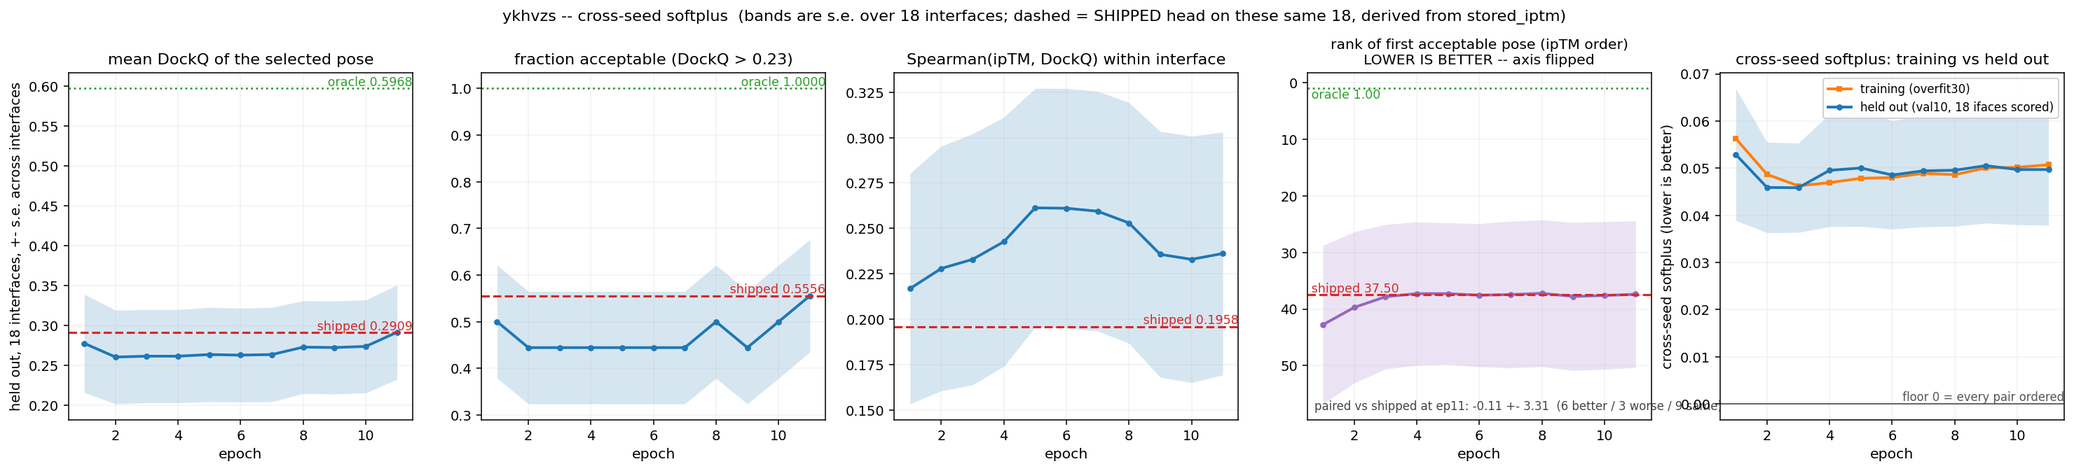
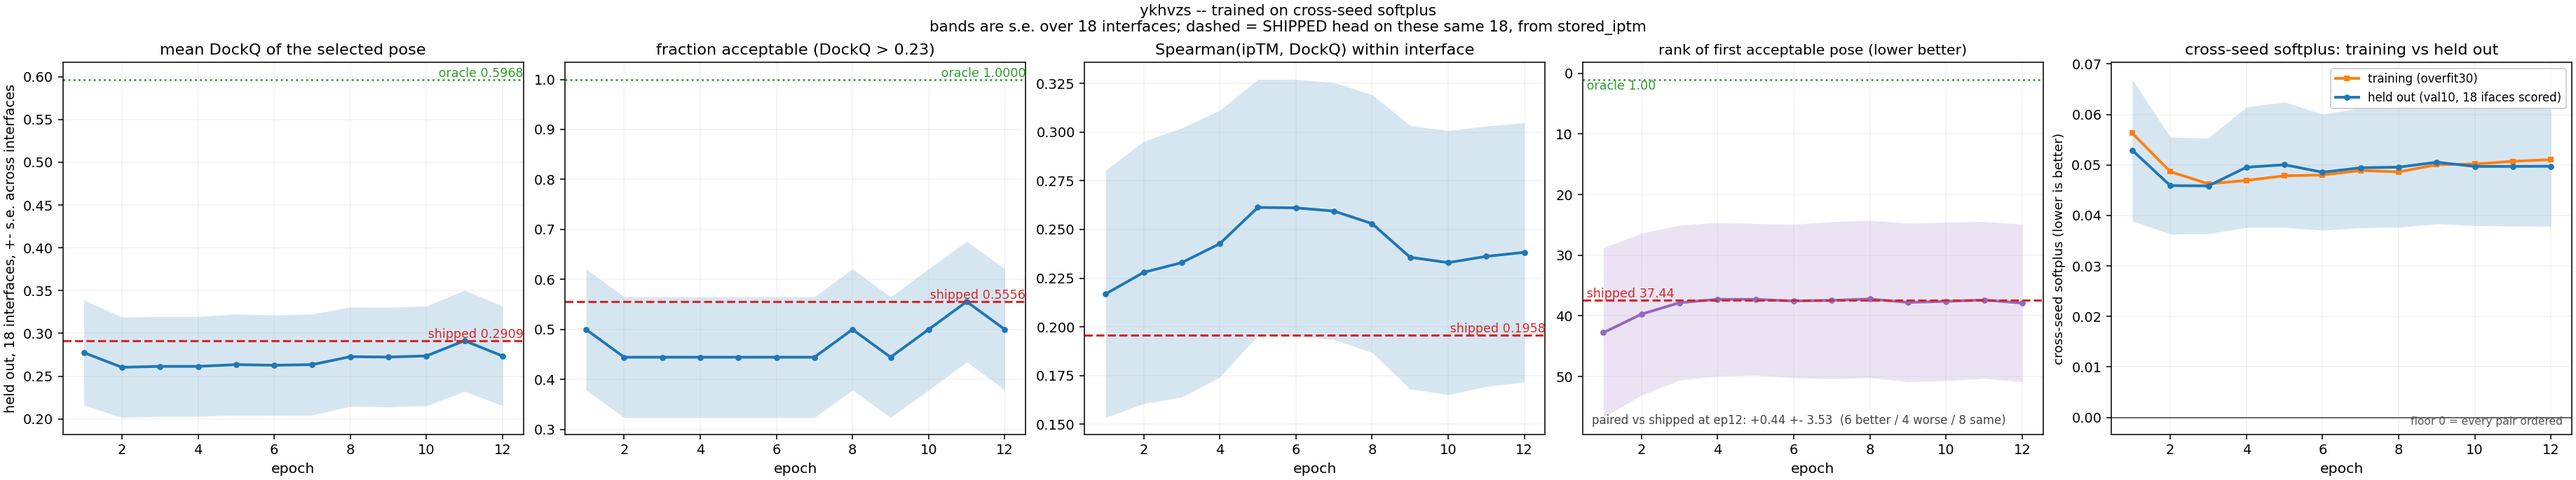
plot the loss the run actually trained, and stop the labels colliding
TWO BUGS, both mine, both caught by the user looking at the picture.

1. objective_label() never checked rank_loss. For a PAE-only run it read
   rank_pairs, found it absent, defaulted it to "cross", and appended a
   hardcoded "softplus" -- so 8eiek8 (PAE, pose-share, no --rank-loss) was
   titled "cross-seed softplus" with every field of that label invented.
   It now returns the loss that was trained, and reads rank_form instead
   of assuming softplus so a linear-form arm is not mislabelled either.

2. My first fix made it worse. The replacement string was a sentence, and
   that sentence was used as BOTH a panel title and a y-axis label, so it
   ran across the neighbouring panel in both directions. Labels are short
   again -- "PAE", "cross-seed softplus" -- and the caveat moved to the
   suptitle.

AND THE PANEL NOW SHOWS THE RIGHT CURVE. rank_rho.py derives a held-out
ranking loss for ANY run, because it only measures ordering and that is
defined for any head. But on a run that never optimised it, drawing it in
the panel headed "the objective itself" asserts something false. A run
without --rank-loss now gets its PAE curves there, train against held out,
over the epochs that have both -- the same intersection rule
plot_full_train.py uses, so the vertical gap between the curves is always
one head rather than a bookkeeping artefact.

8eiek8 reads correctly now: PAE training 2.54 -> 2.26 while held-out PAE
[…]

diff --git a/extra_training/run_logging/plot_three.py b/extra_training/run_logging/plot_three.py
@@ -24,6 +24,7 @@ matplotlib.use("Agg")
 import matplotlib.pyplot as plt
 
 sys.path.insert(0, os.path.dirname(os.path.abspath(__file__)))
+import metrics_io as MIO
 import rank_rho as RHO
 
 # DERIVED FROM THE RUN'S OWN SHARDS, NOT HARDCODED.
@@ -255,9 +256,22 @@ def objective_label(rid):
             a = json.load(fh)
     except Exception:
         return "ranking loss"
+    # A RUN WITH NO RANKING LOSS STILL GETS THIS PANEL, because rank_rho.py derives held-out
+    # ranking loss from the eval shards for ANY run -- it measures how well the head orders poses,
+    # which is defined whatever the head was trained on. But it is then a DIAGNOSTIC, not the
+    # objective, and saying otherwise is a lie about the run. 8eiek8 (PAE only, pose-share, no
+    # --rank-loss) was labelled "cross-seed softplus" because rank_pairs defaults to "cross" when
+    # absent and "softplus" was hardcoded, so every field of that label was invented.
+    if not a.get("rank_loss"):
+        terms = []
+        if float(a.get("alpha_pae") or 0.0):
+            terms.append("PAE")
+        if float(a.get("alpha_confidence") or 0.0) and not a.get("pae_only"):
+            terms.append("confidence")
+        return " + ".join(terms) or "unrecorded loss"
     fam = {"cross": "cross-seed", "within": "within-seed", "all": "all-pair"}.get(
         a.get("rank_pairs") or "cross", a.get("rank_pairs"))
-    bits = [fam, "softplus"]
+    bits = [fam, str(a.get("rank_form") or "softplus")]
     st = float(a.get("rank_straddle") or 0.0)
     if st:
         bits.append(f"straddle {st:g}")
@@ -268,6 +282,29 @@ def objective_label(rid):
     if tau is not None:
         bits.append(f"tau {float(tau):g}")
     return " ".join(bits)
+
+
+def trained_rank_loss(rid):
+    """True when the run actually minimised a ranking loss. A run WITHOUT one still gets a
+    held-out ranking-loss column from rank_rho.py -- it is defined for any head, because it only
+    measures ordering -- but then it is a DIAGNOSTIC and the objective panel must show the loss
+    that was really trained, or the panel lies about the run."""
+    try:
+        with open(os.path.join("training", "runs", run_chain(rid)[0], "args.json")) as fh:
+            return bool(json.load(fh).get("rank_loss"))
+    except Exception:
+        return True
+
+
+def pae_curves(rid):
+    """(epochs, train PAE, held-out PAE) for a PAE-trained run, over the epochs that have BOTH.
+
+    Same rule plot_full_train.py uses: an epoch missing either side is dropped rather than drawn
+    against a gap, so a vertical distance between the curves is always the same head.
+    """
+    M = MIO.load("training/runs", rid, 30, 0)
+    both = sorted(set(M.train_pae) & set(M.val_pae))
+    return both, [M.train_pae[e] for e in both], [M.val_pae[e][0] for e in both]
 
 
 def rank_family(rid):
@@ -338,7 +375,7 @@ def main():
         panels.append(("Spearman(ipTM, DockQ) within interface",
                        g("rho_trained"), g("rho_sem"), s_rho, None))
     n_ax = len(panels) + 1 + (1 if far_panel else 0)   # + objective panel, + rank panel
-    fig, axes = plt.subplots(1, n_ax, figsize=(5.25 * n_ax, 4.6))
+    fig, axes = plt.subplots(1, n_ax, figsize=(5.25 * n_ax, 4.9), layout="constrained")
     for ax, (title, y, se, ship, orac) in zip(axes, panels):
         lo = [v - s for v, s in zip(y, se)]
         hi = [v + s for v, s in zip(y, se)]
@@ -371,7 +408,7 @@ def main():
         axr.text(axr.get_xlim()[0], 1.0, " oracle 1.00", color="#2ca02c",
                  fontsize=9, va="top", ha="left")
         axr.invert_yaxis()                      # see the comment where far_panel is built
-        axr.set_title("rank of first acceptable pose (ipTM order)\nLOWER IS BETTER -- axis flipped",
+        axr.set_title("rank of first acceptable pose (lower better)",
                       fontsize=10.5)
         axr.set_xlabel("epoch", fontsize=10.5)
         axr.grid(alpha=0.15)
@@ -407,33 +444,44 @@ def main():
         _floor_txt = " floor 0 = every pair ordered"
     _tr_pool, _ho_pool = pool_names(a.rid)
     _fam = rank_family(a.rid)
-    tr = {}
-    for _r in run_chain(a.rid):
-        tr.update(train_rank_loss(_r))
-    tr_ep = [e for e in ep if e in tr]
-    if tr_ep:
-        ax.plot(tr_ep, [tr[e] for e in tr_ep], color="#ff7f0e", lw=2.0, marker="s", ms=3.5,
-                label="training" + (f" ({_tr_pool}" if _tr_pool else " (")
-                      + (f", {_fam}-seed pairs)" if _fam and _fam != "cross" else ")"))
-    ho, ho_se = g(ho_col), g(ho_se_col)
-    ax.fill_between(ep, [v - s for v, s in zip(ho, ho_se)], [v + s for v, s in zip(ho, ho_se)],
-                    color="#1f77b4", alpha=0.18, lw=0)
-    ax.plot(ep, ho, color="#1f77b4", lw=2.0, marker="o", ms=3.5,
-            label="held out (" + (f"{_ho_pool}, " if _ho_pool else "")
-                  + f"{n_if} ifaces scored" + ")")
-    ax.axhline(0.0, color="#555555", ls="-", lw=0.9)
-    ax.text(ax.get_xlim()[1], 0.0, _floor_txt, color="#555555",
-            fontsize=8.5, va="bottom", ha="right")
-    ax.set_title(f"{_lbl}: training vs held out", fontsize=11.5)
+    if not trained_rank_loss(a.rid):
+        # PAE RUN: the ranking columns exist but were never optimised, so drawing them here and
+        # calling them the objective is a false claim about the run. Draw the PAE it did minimise.
+        _pep, _ptr, _pho = pae_curves(a.rid)
+        if _pep:
+            ax.plot(_pep, _ptr, color="#ff7f0e", lw=2.0, marker="s", ms=3.5, label="training")
+            ax.plot(_pep, _pho, color="#1f77b4", lw=2.0, marker="o", ms=3.5, label="held out")
+        _lbl = objective_label(a.rid)
+        ax.set_title(f"{_lbl} loss: training vs held out", fontsize=11.5)
+    else:
+        tr = {}
+        for _r in run_chain(a.rid):
+            tr.update(train_rank_loss(_r))
+        tr_ep = [e for e in ep if e in tr]
+        if tr_ep:
+            ax.plot(tr_ep, [tr[e] for e in tr_ep], color="#ff7f0e", lw=2.0, marker="s", ms=3.5,
+                    label="training" + (f" ({_tr_pool}" if _tr_pool else " (")
+                          + (f", {_fam}-seed pairs)" if _fam and _fam != "cross" else ")"))
+        ho, ho_se = g(ho_col), g(ho_se_col)
+        ax.fill_between(ep, [v - s for v, s in zip(ho, ho_se)], [v + s for v, s in zip(ho, ho_se)],
+                        color="#1f77b4", alpha=0.18, lw=0)
+        ax.plot(ep, ho, color="#1f77b4", lw=2.0, marker="o", ms=3.5,
+                label="held out (" + (f"{_ho_pool}, " if _ho_pool else "")
+                      + f"{n_if} ifaces scored" + ")")
+        ax.axhline(0.0, color="#555555", ls="-", lw=0.9)
+        ax.text(0.98, 0.02, _floor_txt.strip(), transform=ax.transAxes, color="#555555",
+                fontsize=8, va="bottom", ha="right")
+        ax.set_title(f"{_lbl}: training vs held out", fontsize=11.5)
     ax.set_xlabel("epoch", fontsize=10.5)
-    ax.set_ylabel(f"{_lbl} (lower is better)", fontsize=10)
+    ax.set_ylabel(f"{_lbl} (lower is better)", fontsize=9.5)
     ax.legend(fontsize=8.5, loc="upper right", framealpha=0.9)
     ax.grid(alpha=0.15)
-    fig.suptitle(f"{a.rid} -- {objective_label(a.rid)}  (bands are s.e. over {n_if} interfaces; "
-                 f"dashed = SHIPPED head on these same {n_if}, derived from stored_iptm)",
-                 fontsize=11.5, y=1.02)
+    _note = "" if trained_rank_loss(a.rid) else "  [ranking columns exist but were NOT trained]"
+    fig.suptitle(f"{a.rid} -- trained on {objective_label(a.rid)}{_note}\n"
+                 f"bands are s.e. over {n_if} interfaces; dashed = SHIPPED head on these same "
+                 f"{n_if}, from stored_iptm", fontsize=11)
     out = a.out or os.path.join("training", "runs", "three_panels.png")
-    plt.savefig(out, dpi=140, bbox_inches="tight")
+    plt.savefig(out, dpi=140)
     print(f"wrote {out}  ({len(ep)} epoch(s): {ep[0]}..{ep[-1]})")
 
 
